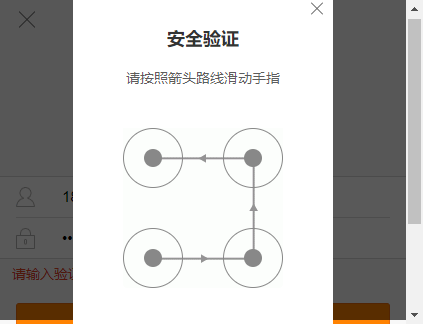
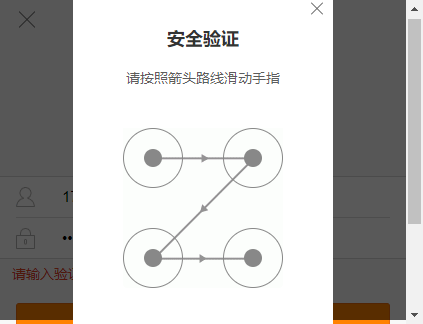
upgrade20181026-2327

diff --git a/libs/Login.py b/libs/Login.py
@@ -183,7 +183,7 @@ class Login(object):
                 ).click_and_hold().perform()
             else:
                 # 小幅移动次数
-                times = 30
+                times = 25
                 for i in range(times):
                     ActionChains(self.driver).move_by_offset(
                         dx / times, dy / times
@@ -201,20 +201,28 @@ class Login(object):
                 dy = (
                         circles[numbers[index + 1] - 1].location["y"] - circle.location["y"]
                 )
-        time.sleep(2)
+
+        move_ret = self.driver.find_element_by_xpath(move_ret_path)
+        if move_ret == '验证码已过期' or move_ret == '验证失败':
+            return True
+        else:
+            return False
 
     def loginCheck(self):
         # 登录检查，是否真的登录了账号:
+
+        self.driver.set_window_size(900, 455)
         self.to_page(mainst_url)
-        try:
-            print(u'INFO: 登录检查...')
-            self.driver.find_elements_by_xpath(check_path)
-        except NoSuchElementException as e:
+
+        print(u'INFO: 登录检查...')
+        gn_position = self.wait.until(EC.presence_of_element_located((By.XPATH, gn_position_path)))
+        html = gn_position.get_attribute('innerHTML')
+
+        if '注册' in html or '登录' in html:
             print(u'INFO: 登录异常，重新登录中...')
             self.run()
-        except WebDriverException as w:
-            print(u'INFO: 登录异常，重新登录中...')
-            self.run()
+        else:
+            print(u'INFO: 登录检查通过...')
 
     def run(self):
         """
@@ -222,10 +230,13 @@ class Login(object):
         :return: driver 返回浏览器driver 以备之后使用
         """
         self.open()
-        image = self.get_image()
-        numbers = self.detect_image(image)
-        self.move(numbers)
-        time.sleep(10)
+        loop = True
+        # 预防 拖动轨迹 失败
+        while loop:
+            image = self.get_image()
+            numbers = self.detect_image(image)
+            loop = self.move(numbers)
+            time.sleep(5)
         self.loginCheck()
 
         return self.driver

diff --git a/app.py b/app.py
@@ -32,7 +32,7 @@ if __name__ == '__main__':
 
     accounts = readAccounts().get()
     for name, pswd in accounts.items():
-        driver = webdriver.Chrome()
+        driver = webdriver.Chrome(driver_path)
         try:
             print('-----账号：{} 正在打榜：-----'.format(name))
             # TODO: 设置进度记录仪
@@ -49,15 +49,18 @@ if __name__ == '__main__':
             print('INFO: 操作进度：播种完成')
             driver = goCenter(driver).sendScore()
 
-            driver.close()
+            try:
+                driver.quit()
+            except AttributeError as a:
+                continue
         except TimeoutException as t:
             print(u'出现超时现象。挖土豆机已经终止')
-            driver.close()
+            driver.quit()
             pass
         except WebDriverException as e:
             print(e)
             print(u'挖土豆机浏览器引擎出现问题，当前账号打榜已终止。')
-            driver.close()
+            driver.quit()
 
 # TODO:
 """ 

diff --git a/libs/path_url_lib.py b/libs/path_url_lib.py
@@ -8,8 +8,9 @@ xkl_url = 'https://weibo.com/p/1008085db32612886f0e6498427553470911d9/super_inde
 vote_url = 'https://huati.weibo.cn/super/pickoppo?page_id=100808132000b677812b65d29154c4ec164a96'
 
 # 登录检查所需 xpath
-check_path = '//*[@id="pl_common_top"]/div/div/div[3]/div[2]/div[2]/a/em'
+gn_position_path = '//*[@id="pl_common_top"]/div/div/div[3]'
 title_path = '//*[@id="Pl_Core_StuffHeader__1"]/div/div[2]/div/div[2]/h1'
+move_ret_path = '//*[@id="patternCaptchaHolder"]/div[1]/div[2]'
 
 # 自动签到 所需 xpath
 focus_btn_path = '//*[@id="Pl_Core_StuffHeader__1"]/div/div[2]/div/div[3]/div/div[2]'

diff --git a/libs/Auto_Sign.py b/libs/Auto_Sign.py
@@ -48,8 +48,8 @@ class AutoSign(object):
             time.sleep(3)
 
     def run(self):
-        url_set = [mainst_url, wtd_url, zdz_url, cdb_url, xkl_url]
-
+        url_set = [wtd_url, zdz_url, cdb_url, xkl_url]
+        self.doQuery()
         for url in url_set:
             self.to_page(url)
             self.doQuery()
